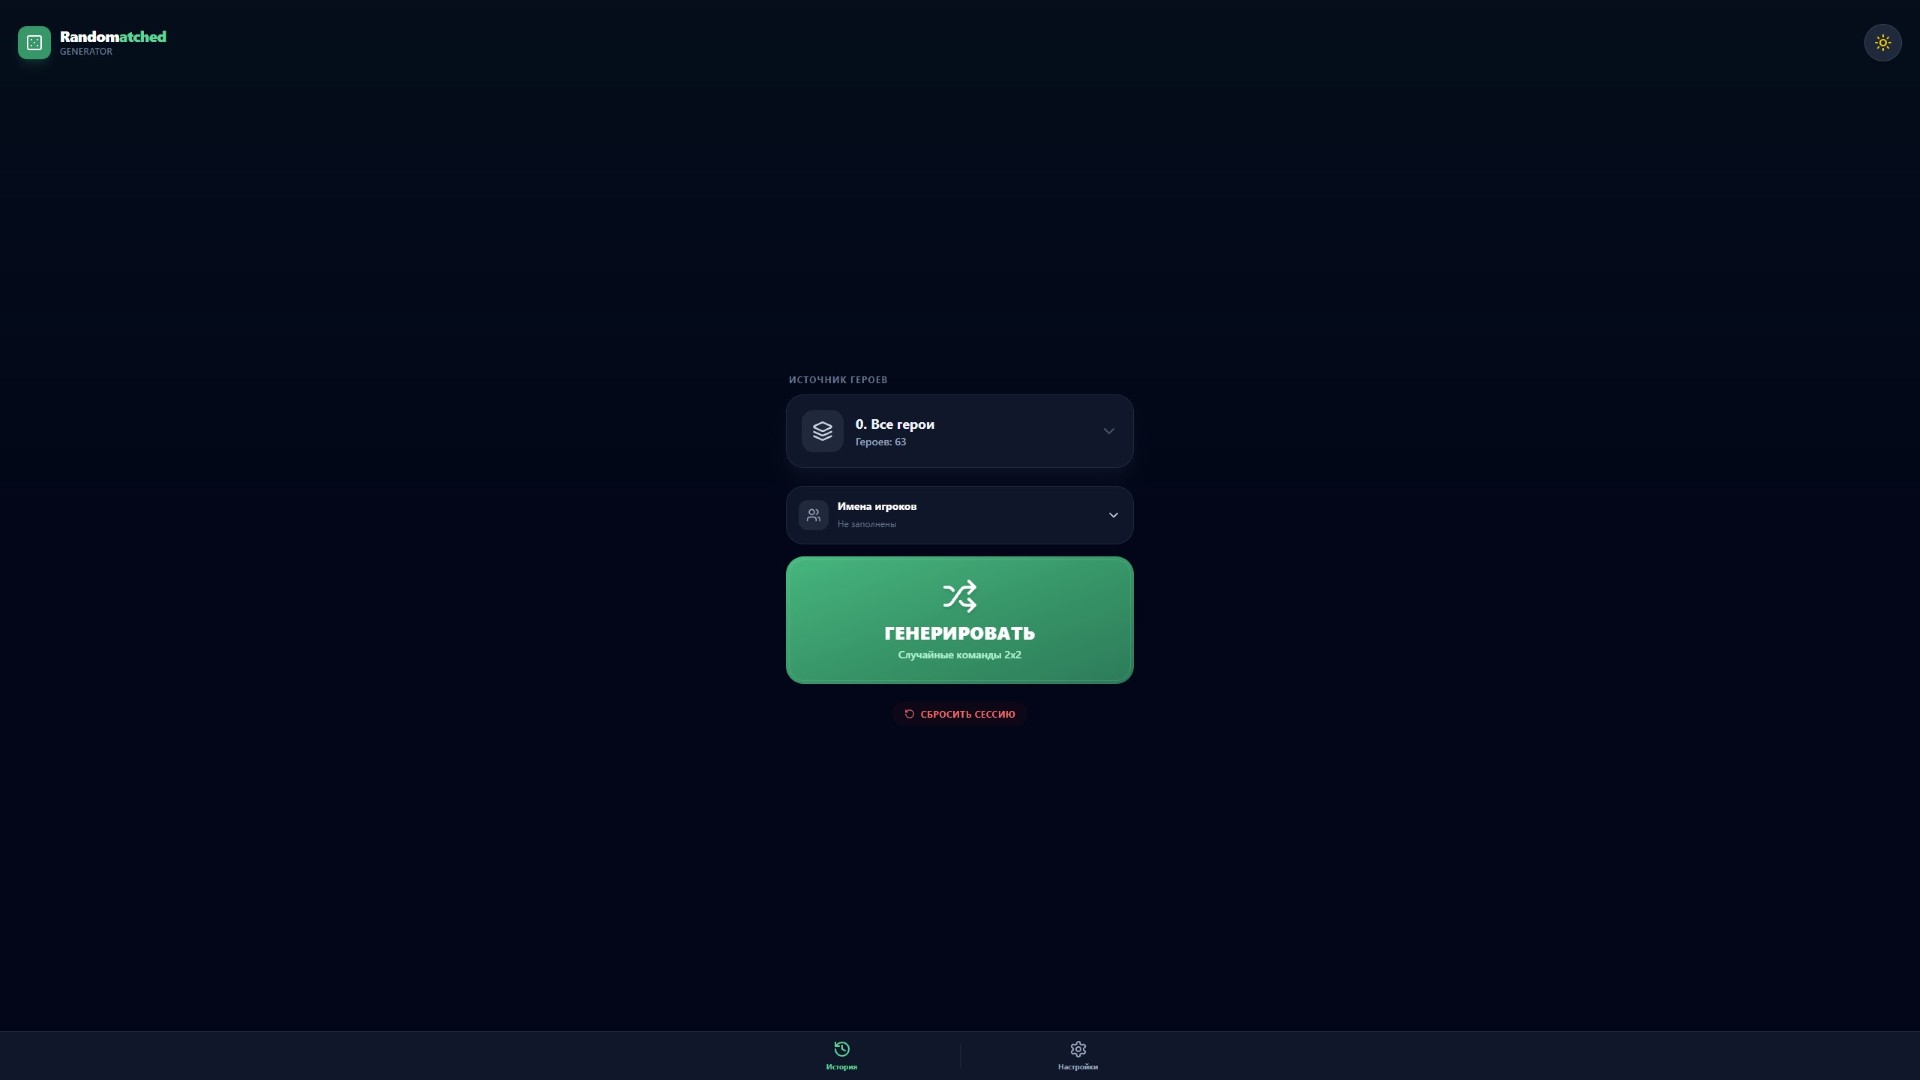
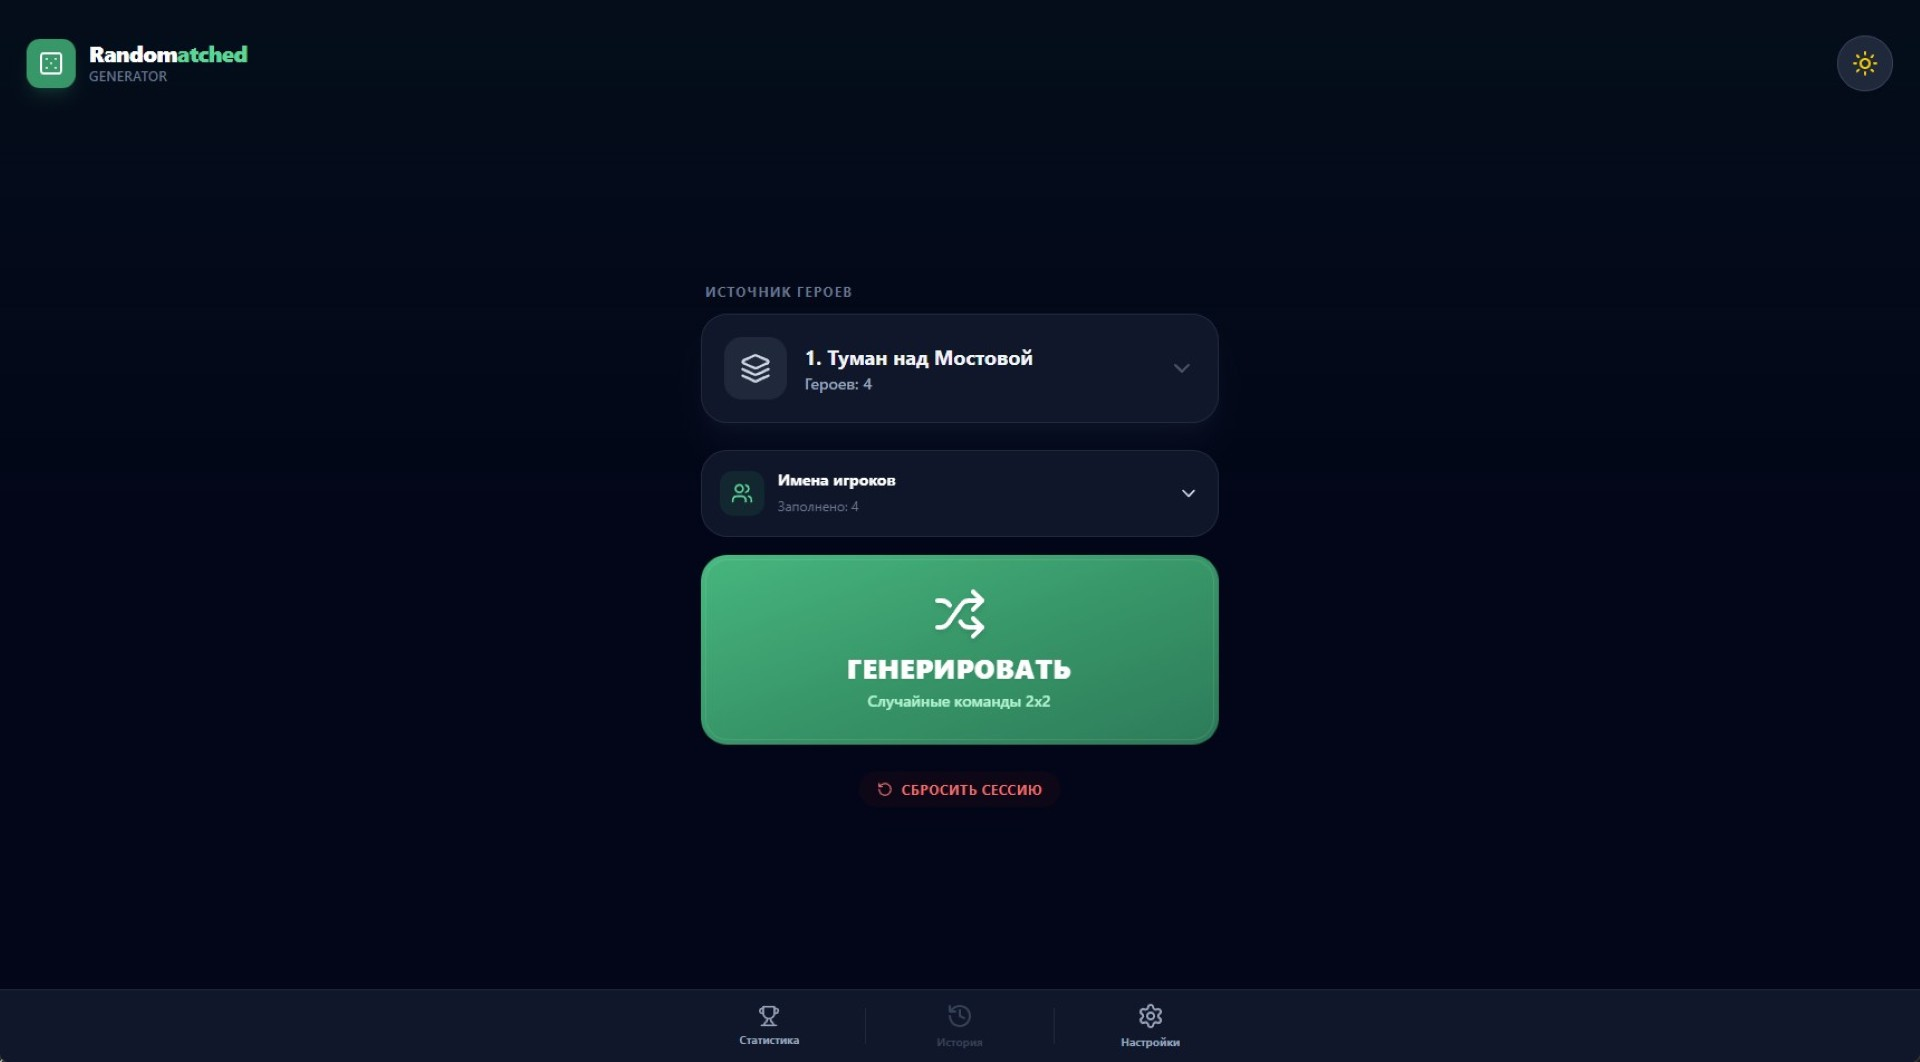
some fixes

diff --git a/components/StatsModal.tsx b/components/StatsModal.tsx
@@ -27,6 +27,7 @@ interface StatsModalProps {
     onClearTrash: () => void;
     isAutoSyncEnabled: boolean;
     onImportData: (data: { history: MatchRecord[], deletedHistory: MatchRecord[] }) => boolean;
+    checkConnectivity?: () => Promise<boolean>;
 }
 
 export const StatsModal: React.FC<StatsModalProps> = ({
@@ -48,7 +49,8 @@ export const StatsModal: React.FC<StatsModalProps> = ({
     onPermanentDeleteMatch = () => { },
     onClearTrash = () => { },
     isAutoSyncEnabled,
-    onImportData
+    onImportData,
+    checkConnectivity
 }) => {
     // Backup Menu State
     const [isDataMenuOpen, setIsDataMenuOpen] = useState(false);
@@ -171,24 +173,36 @@ export const StatsModal: React.FC<StatsModalProps> = ({
     // Actually, syncWithAnimation uses `onSync` and `setVisualSyncState`.
     // Let's rely on standard useEffect deps or a fresh ref.
 
-    // To safe-guard against dependency loops, we can use a ref for the animation trigger
+    // We need to keep a ref to checkConnectivity as well to use in cleanup
+    // We need to keep a ref to checkConnectivity as well to use in cleanup
+    const checkConnectivityRef = useRef(checkConnectivity);
     const syncWithAnimationRef = useRef(syncWithAnimation);
-    const onSyncRef = useRef(onSync); // Restore this for the cleanup function
+    const onSyncRef = useRef(onSync);
+
     useEffect(() => {
+        checkConnectivityRef.current = checkConnectivity;
         syncWithAnimationRef.current = syncWithAnimation;
         onSyncRef.current = onSync;
-    }, [syncWithAnimation, onSync]);
+    }, [checkConnectivity, syncWithAnimation, onSync]);
 
     useEffect(() => {
         if (isOpen && isAutoSyncEnabled) {
             // Trigger animated sync on OPEN
             syncWithAnimationRef.current({ silentIfNoChanges: true, force: true });
             return () => {
-                // Determine if we should sync on close?
-                // The original code did sync on close.
-                // We do NOT want animation on close (modal is closing).
-                // So we stick to raw onSyncRef.current for close.
-                onSyncRef.current({ silentIfNoChanges: true });
+                // Determine if we should sync on close
+                // Use async IIFE to check connectivity first
+                (async () => {
+                    const check = checkConnectivityRef.current;
+                    if (check) {
+                        const hasInternet = await check();
+                        if (!hasInternet) return;
+                    } else if (typeof navigator !== 'undefined' && !navigator.onLine) {
+                        return;
+                    }
+                    // Only sync if online
+                    onSyncRef.current({ silentIfNoChanges: true });
+                })();
             };
         }
     }, [isOpen, isAutoSyncEnabled]);

diff --git a/vite.config.ts b/vite.config.ts
@@ -41,14 +41,14 @@ export default defineConfig({
         screenshots: [
           {
             src: '/screenshots/mobile.jpg',
-            sizes: '419x854',
+            sizes: '430x932',
             type: 'image/jpeg',
             form_factor: 'narrow',
             label: 'Mobile Screen'
           },
           {
             src: '/screenshots/desktop.jpg',
-            sizes: '1920x1080',
+            sizes: '1920x1062',
             type: 'image/jpeg',
             form_factor: 'wide',
             label: 'Desktop Screen'

diff --git a/App.tsx b/App.tsx
@@ -326,6 +326,7 @@ const App: React.FC = () => {
                 onClearTrash={clearTrash}
                 isAutoSyncEnabled={isAutoSyncStatsEnabled}
                 onImportData={importData}
+                checkConnectivity={checkConnectivity}
             />
 
             <ResetConfirmModal

diff --git a/.agent/rules/language.md b/.agent/rules/language.md
@@ -2,13 +2,4 @@
 trigger: always_on
 ---
 
-Always communicate in Russian.
-This applies to:
-- Chat responses
-- Code comments
-- Documentation
-- Commit messages
-- File names (if applicable contextually, though code usually stays English, but descriptions/docs in Russian)
-- Implementation plans
-- Wolkthroughs
-- Tasks
+Всегда пиши код, как senior frontend разработчик.
